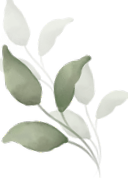
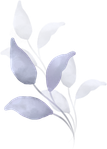
feat: add expired album templates and implement EventShareController for file uploads and management

diff --git a/resources/views/events/album-expired-2.blade.php b/resources/views/events/album-expired-2.blade.php
@@ -1,0 +1,32 @@
+<x-papilia.layout :preview="false" fontFamily="Montserrat" bgStyle="background-color: #ffffff;"
+    class="bg-white relative min-h-screen">
+
+    <!-- Hojas -->
+    <img src="{{ asset('images/hojas-arriba.png') }}"
+        class="absolute top-0 left-0 w-32 sm:w-48 opacity-80 pointer-events-none z-0 -mt-2 -ml-2">
+
+    <img src="{{ asset('images/hojas-abajo.png') }}"
+        class="absolute bottom-0 right-0 w-32 sm:w-48 opacity-80 pointer-events-none z-0">
+
+    <div class="relative z-10 w-full flex flex-col items-center justify-center min-h-[80vh] px-6 py-12 text-center">
+
+        <h2 class="text-lg sm:text-xl font-bold text-[#092D51] mb-12 max-w-[90%] sm:max-w-lg mx-auto leading-snug">
+            Si necesitas recuperar algún recuerdo especial, puedes consultar con nosotros
+        </h2>
+
+        <div class="w-full mx-auto mb-10 relative z-10 flex justify-center">
+            <img src="{{ asset('images/mariposa-capullo-2.png') }}" alt="Mariposa Capullo" class="w-80 sm:w-[28rem] md:w-[32rem] h-auto object-contain drop-shadow-sm">
+        </div>
+
+        <h2 class="text-3xl sm:text-4xl font-extrabold text-[#092D51] mb-12 max-w-[280px] sm:max-w-sm mx-auto leading-tight">
+            Esta galería ha<br>cumplido su ciclo
+        </h2>
+
+        <a href="https://papilia.net" target="_blank"
+            class="relative z-20 text-center font-medium text-[#092D51] hover:underline transition-all text-base sm:text-lg">
+            papilia.net
+        </a>
+
+    </div>
+
+</x-papilia.layout>

diff --git a/resources/views/events/album-expired-3.blade.php b/resources/views/events/album-expired-3.blade.php
@@ -1,0 +1,31 @@
+<x-papilia.layout :preview="false" fontFamily="Montserrat" bgStyle="background-color: #ffffff;"
+    class="bg-white relative min-h-screen overflow-x-hidden">
+
+    <!-- Flores movidas al flujo del documento -->
+
+    <div class="relative z-10 w-full flex flex-col items-center justify-center min-h-[80vh] px-6 py-12 text-center">
+
+        <h2 class="text-2xl sm:text-3xl font-extrabold text-[#A8792B] mb-12 max-w-[90%] sm:max-w-xl mx-auto leading-snug">
+            Los recuerdos de este evento ya no están disponibles.
+        </h2>
+
+        <div class="w-full mx-auto mb-10 relative z-10 flex justify-center">
+            <img src="{{ asset('images/mariposa-capullo-3.png') }}" alt="Mariposa Capullo" class="w-80 sm:w-[28rem] md:w-[32rem] h-auto object-contain drop-shadow-sm">
+        </div>
+
+        <h2 class="text-xl sm:text-2xl font-bold text-[#A8792B] mb-2 sm:mb-4 max-w-[90%] sm:max-w-md mx-auto leading-tight">
+            El tiempo de visualización para este evento ha terminado.
+        </h2>
+
+        <div class="w-full relative pointer-events-none flex justify-end translate-x-2 sm:translate-x-4 -mt-12 sm:-mt-18 z-0 mb-2">
+            <img src="{{ asset('images/flores-doradas-abajo-2.png') }}" alt="Flores Doradas" class="w-36 sm:w-48 md:w-56 opacity-90 object-contain">
+        </div>
+
+        <a href="https://papilia.net" target="_blank"
+            class="relative z-20 text-center font-medium text-[#426b00] hover:underline transition-all text-base sm:text-lg mt-2">
+            papilia.net
+        </a>
+
+    </div>
+
+</x-papilia.layout>

diff --git a/resources/views/events/album-expired-1.blade.php b/resources/views/events/album-expired-1.blade.php
@@ -1,0 +1,29 @@
+<x-papilia.layout :preview="false" fontFamily="Montserrat"
+    bgStyle="background-image: url('{{ asset('images/papel.jpg') }}'); background-size: cover; background-position: center;">
+
+    <div class="flex flex-col items-center justify-center min-h-[80vh] px-4 sm:px-6 py-10 text-center">
+        
+        <h2 class="text-lg sm:text-xl font-bold text-[#426b00] mb-10 max-w-[90%] sm:max-w-lg mx-auto leading-snug">
+            Esta galería ya no esta disponible para nuevas capturas.
+        </h2>
+
+        <div class="w-full mx-auto mb-8 relative z-10 flex justify-center">
+            <img src="{{ asset('images/mariposa-capullo.png') }}" alt="Mariposa Capullo" class="w-80 sm:w-[28rem] md:w-[32rem] h-auto object-contain drop-shadow-sm">
+        </div>
+
+        <h2 class="text-3xl sm:text-4xl font-extrabold text-[#426b00] mb-2 max-w-[280px] sm:max-w-sm mx-auto leading-tight">
+            Esta galería ha<br>cumplido su ciclo
+        </h2>
+
+        <div class="w-full px-2 sm:px-6 mx-auto mb-10 overflow-hidden flex justify-center">
+            <x-papilia.divider height="w-[120%] min-w-[300px] h-auto max-w-none" />
+        </div>
+
+        <a href="https://papilia.net" target="_blank"
+            class="relative z-20 text-center font-medium text-[#426b00] hover:underline transition-all text-base sm:text-lg">
+            papilia.net
+        </a>
+
+    </div>
+
+</x-papilia.layout>

diff --git a/app/Http/Controllers/EventShareController.php b/app/Http/Controllers/EventShareController.php
@@ -106,6 +106,13 @@ class EventShareController extends Controller
         $event = Event::where('album', hex2bin($id_album))->firstOrFail();
 
         if (!$event->album_active) {
+            if ($event->template == 1) {
+                return view('events.album-expired-1', compact('event'));
+            } elseif ($event->template == 2) {
+                return view('events.album-expired-2', compact('event'));
+            } elseif ($event->template == 3) {
+                return view('events.album-expired-3', compact('event'));
+            }
             return view('events.thank-you', ['event' => $event, 'type' => 'album']);
         }
 